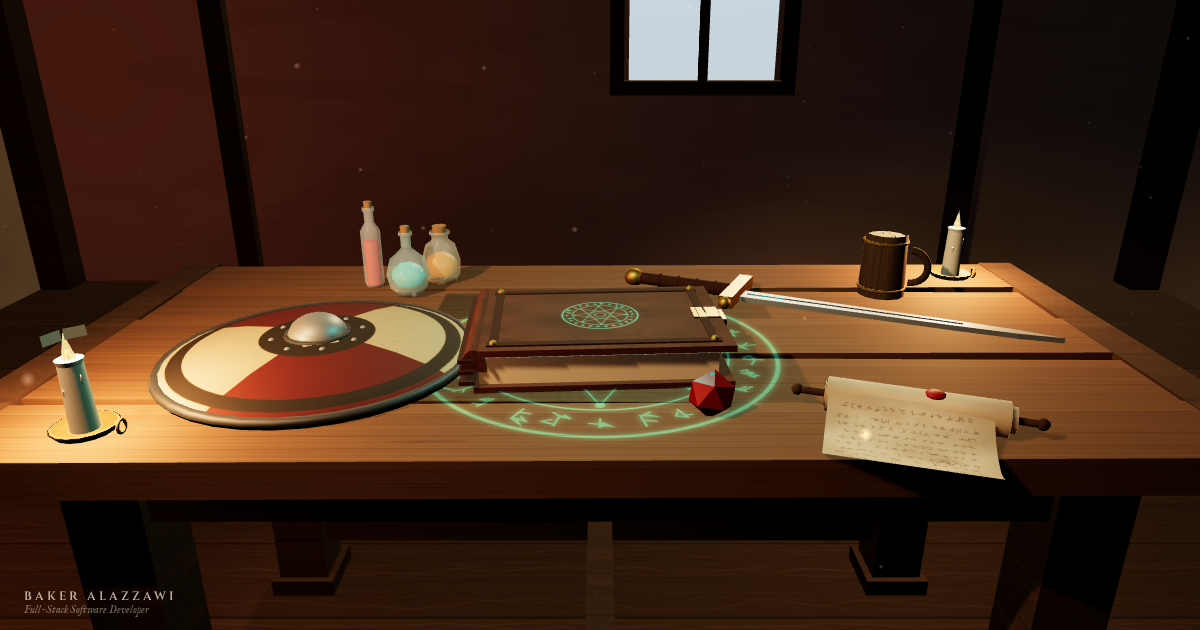
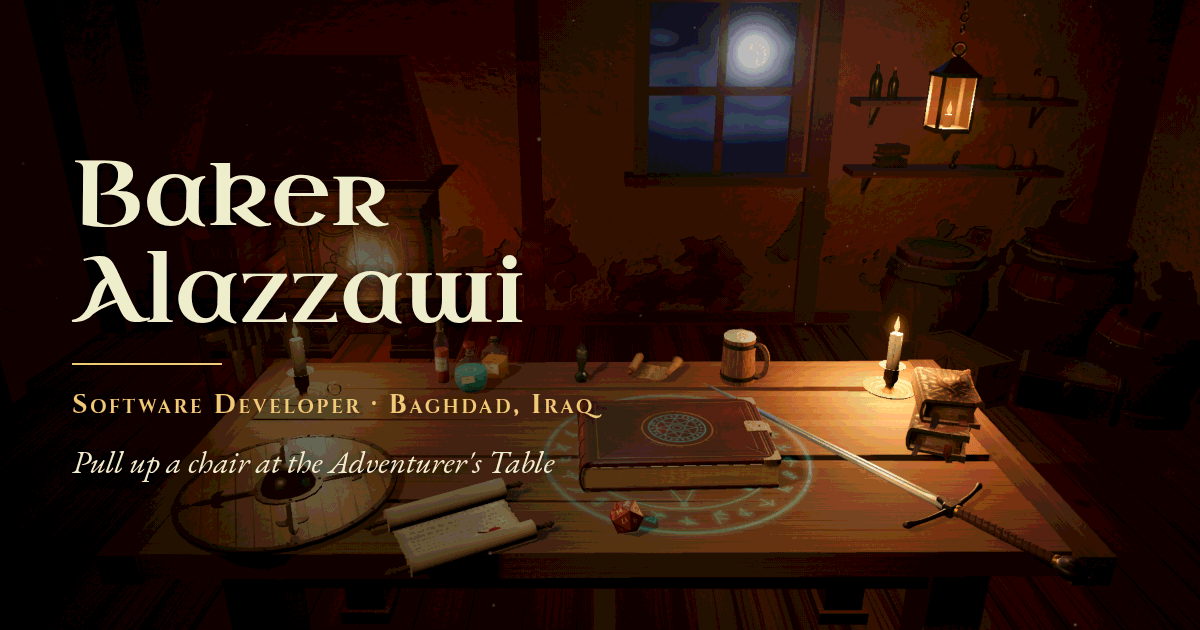
Refresh the social share image with the new tavern
Capture the current 3D tavern from production and compose the name, title and tagline over it (1200x630, 8-bit PNG). Update the og/twitter image alt text.

diff --git a/index.html b/index.html
@@ -23,7 +23,7 @@
     />
     <meta property="og:url" content="https://bakeralazzawi.com/" />
     <meta property="og:image" content="https://bakeralazzawi.com/og.png" />
-    <meta property="og:image:alt" content="A candle-lit tavern table with a glowing spellbook — Baker Alazzawi's portfolio" />
+    <meta property="og:image:alt" content="Baker Alazzawi, Software Developer in Baghdad: a candle-lit tavern table with a closed spellbook on a glowing rune circle and a red die, beside a fireplace" />
     <meta property="og:image:width" content="1200" />
     <meta property="og:image:height" content="630" />
     <meta name="twitter:card" content="summary_large_image" />
@@ -33,7 +33,7 @@
       content="Pull up a chair at a candle-lit 3D inn, open the spellbook, and read a Computer Wizard's quests, spells and artifacts."
     />
     <meta name="twitter:image" content="https://bakeralazzawi.com/og.png" />
-    <meta name="twitter:image:alt" content="A candle-lit tavern table with a glowing spellbook — Baker Alazzawi's portfolio" />
+    <meta name="twitter:image:alt" content="Baker Alazzawi, Software Developer in Baghdad: a candle-lit tavern table with a closed spellbook on a glowing rune circle and a red die, beside a fireplace" />
     <link rel="canonical" href="https://bakeralazzawi.com/" />
 
     <!-- Fonts: EB Garamond (body ink), Uncial Antiqua (tome titles + drop caps),
